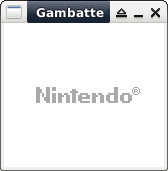
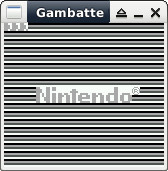
init

diff --git a/emu/gb/asm_palette.htm b/emu/gb/asm_palette.htm
@@ -54,15 +54,24 @@
 2. <a href="https://github.com/sinamas/gambatte">gambatte</a><br>
 3. <a href="https://github.com/lancekindle/DMGreport">DMGreport</a><br><br>
 
-暫存器<br>
+Game Boy支援4種色階並且有3個調色盤(1個Background、2個Object)可以使用，顏色的色階則是由CHR像素資料控制，色階對應的顏色則可以由調色盤控制<br>
 <img src="asm_palette/1.jpg" class="maxSize"><br><br>
 
 main.s
 </p>
 <pre class="brush:asm">
-BGP  equ $ff47
-OBP0 equ $ff48
-OBP1 equ $ff49
+BGP         equ $ff47
+OBP0        equ $ff48
+OBP1        equ $ff49
+LCDC        equ $ff40
+STAT        equ $ff41
+LY          equ $ff44
+IE          equ $ffff
+LCDCF_OBJ8  equ %00000000
+LCDCF_OBJON equ %00000010
+LCDCF_ON    equ %10000000
+IEF_VBLANK  equ %00000001
+STATF_BUSY  equ %00000010
  
 section "vblank", rom0[$0040]
   reti
@@ -102,17 +111,71 @@ section "header", rom0[$0104]
     
 _start:
   di
+  ld sp, $ffff
+  ld a, IEF_VBLANK
+  ld [IE], a
+  ei
  
-  ld a, %00000100
+  halt
+  ld a, [LCDC]
+  and ~LCDCF_ON
+  ld [LCDC], a
+ 
+  ld d, 16
+  ld bc, tile
+  ld hl, $8000
+copy_chr:
+  ld a, [bc]
+  ld [hl+], a
+  inc bc
+  dec d
+  jr nz, copy_chr
+ 
+  ld b, 3
+  ld hl, $9800
+copy_bg:
+  ldh a, [STAT]
+  and STATF_BUSY
+  jr nz, @-4
+  ld a, 1
+  ld [hl+], a
+  dec b
+  jr nz, copy_bg
+ 
+  ld a, %11100100
   ld [BGP], a
-  ld a, %00000000
+  ld a, %11100100
   ld [OBP0], a
   ld [OBP1], a
+
+  ld a, [LCDC]
+  or LCDCF_ON
+  ld [LCDC], a
  
 loop:
   jp loop
-</pre><br>
+ 
+tile:
+  db %11111111
+  db %11111111
+  db %11111111
+  db %11111111
+  db %11111111
+  db %00000000
+  db %11111111
+  db %00000000 
+  db %00000000
+  db %11111111
+  db %00000000
+  db %11111111
+  db %00000000
+  db %00000000
+  db %00000000
+  db %00000000
+</pre>
 <p>
+每個像素的色階由tile設定，因此，顯示一個8x8 Pixels，需要16 Bytes(1個Pixel由2個bits控制)，色階對應的顏色則由BGP(Background)、OBP0(Object)、OBP1(Object)設定<br><br>
+
 完成<br>
 <img src="asm_palette/2.jpg" class="maxSize">
 </p>

diff --git a/emu.htm b/emu.htm
@@ -115,23 +115,23 @@ ROM檔頭</a><br>
   
   &emsp;&emsp;&lowast;
   <a href="emu/gb/asm_oam.htm">
-  OAM</a><br>
+  Object Attribute Memory(OAM)</a><br>
   
   &emsp;&emsp;&lowast;
   <a href="emu/gb/asm_dma.htm">
-  DMA</a><br>
+  DMA Transfer</a><br>
   
   &emsp;&emsp;&lowast;
   <a href="emu/gb/asm_chr.htm">
-  CHR</a><br>
+  Character RAM(Tile)</a><br>
   
   &emsp;&emsp;&lowast;
   <a href="emu/gb/asm_bg.htm">
-  BG</a><br>
+  Background Display</a><br>
   
   &emsp;&emsp;&lowast;
   <a href="emu/gb/asm_controller.htm">
-  Controller</a><br>
+  P1 Controller</a><br>
   
   &emsp;&emsp;&lowast;
   <a href="emu/gb/asm_palette.htm">

diff --git a/emu/gb/asm_oam.htm b/emu/gb/asm_oam.htm
@@ -46,7 +46,7 @@
 <script type="text/javascript" src="../../header.js"></script>
 <div id="page">
 <h3>Game Boy &gt;&gt; Assembly</h3>
-<p><b>OAM</b></p>
+<p><b>Object Attribute Memory(OAM)</b></p>
 <hr size="1">
 <p>
 參考資訊：<br>

diff --git a/emu/gb/asm_controller.htm b/emu/gb/asm_controller.htm
@@ -46,7 +46,7 @@
 <script type="text/javascript" src="../../header.js"></script>
 <div id="page">
 <h3>Game Boy &gt;&gt; Assembly</h3>
-<p><b>Controller</b></p>
+<p><b>P1 Controller</b></p>
 <hr size="1">
 <p>
 參考資訊：<br>

diff --git a/emu/gb/asm_chr.htm b/emu/gb/asm_chr.htm
@@ -46,7 +46,7 @@
 <script type="text/javascript" src="../../header.js"></script>
 <div id="page">
 <h3>Game Boy &gt;&gt; Assembly</h3>
-<p><b>CHR</b></p>
+<p><b>Character RAM(Tile)</b></p>
 <hr size="1">
 <p>
 參考資訊：<br>

diff --git a/emu/gb/asm_bg.htm b/emu/gb/asm_bg.htm
@@ -46,7 +46,7 @@
 <script type="text/javascript" src="../../header.js"></script>
 <div id="page">
 <h3>Game Boy &gt;&gt; Assembly</h3>
-<p><b>BG</b></p>
+<p><b>Background Display</b></p>
 <hr size="1">
 <p>
 參考資訊：<br>

diff --git a/emu/gb/asm_dma.htm b/emu/gb/asm_dma.htm
@@ -46,7 +46,7 @@
 <script type="text/javascript" src="../../header.js"></script>
 <div id="page">
 <h3>Game Boy &gt;&gt; Assembly</h3>
-<p><b>DMA</b></p>
+<p><b>DMA Transfer</b></p>
 <hr size="1">
 <p>
 參考資訊：<br>
